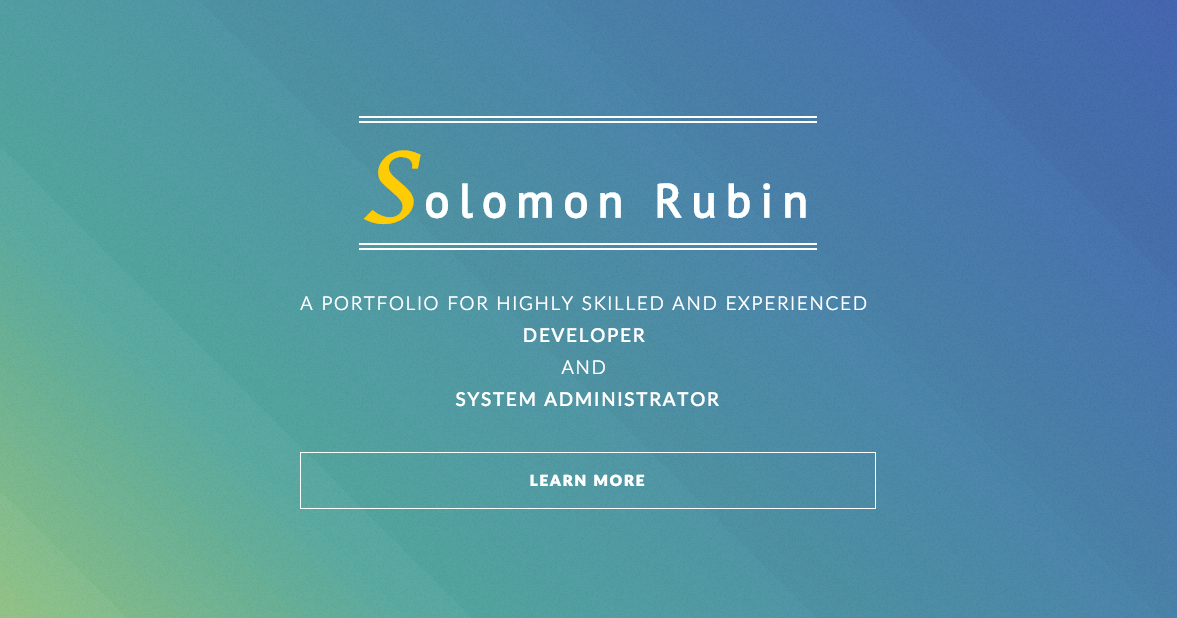
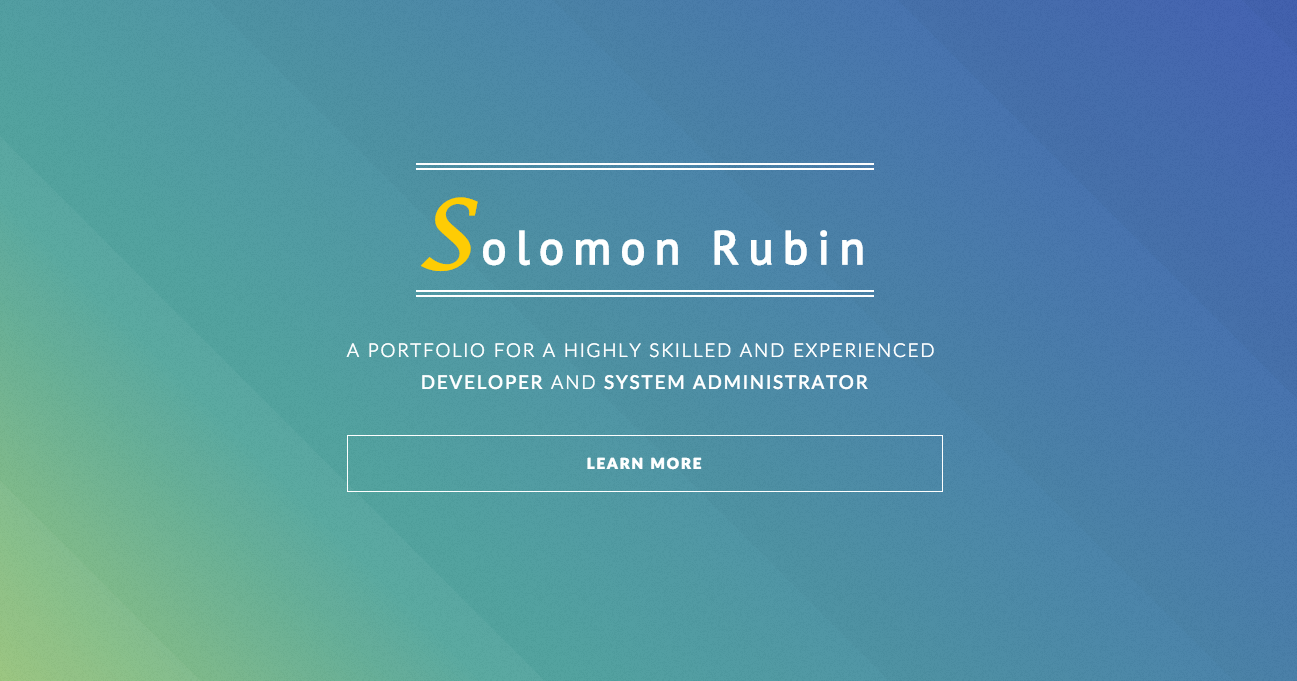
Fixed missing word. Changed front text format, slightly.

Changed region(s): [[0.2447, 0.1845, 0.7341, 0.7379], [0.4588, 0.7686, 0.5506, 0.7994]]

diff --git a/index.php b/index.php
@@ -69,11 +69,9 @@
 					<header>
 						<h2 class="logo"><span>S</span>olomon Rubin</h2>
 					</header>
-					<p>A portfolio for highly skilled and experienced <br/>
+					<p>A portfolio for a highly skilled and experienced <br/>
 
-						<b>Developer</b> <br />
-						and <br/>
-						<b>System Administrator</b>
+					<b>Developer</b> and <b>System Administrator</b>
 
 					</p>
 					<footer>
